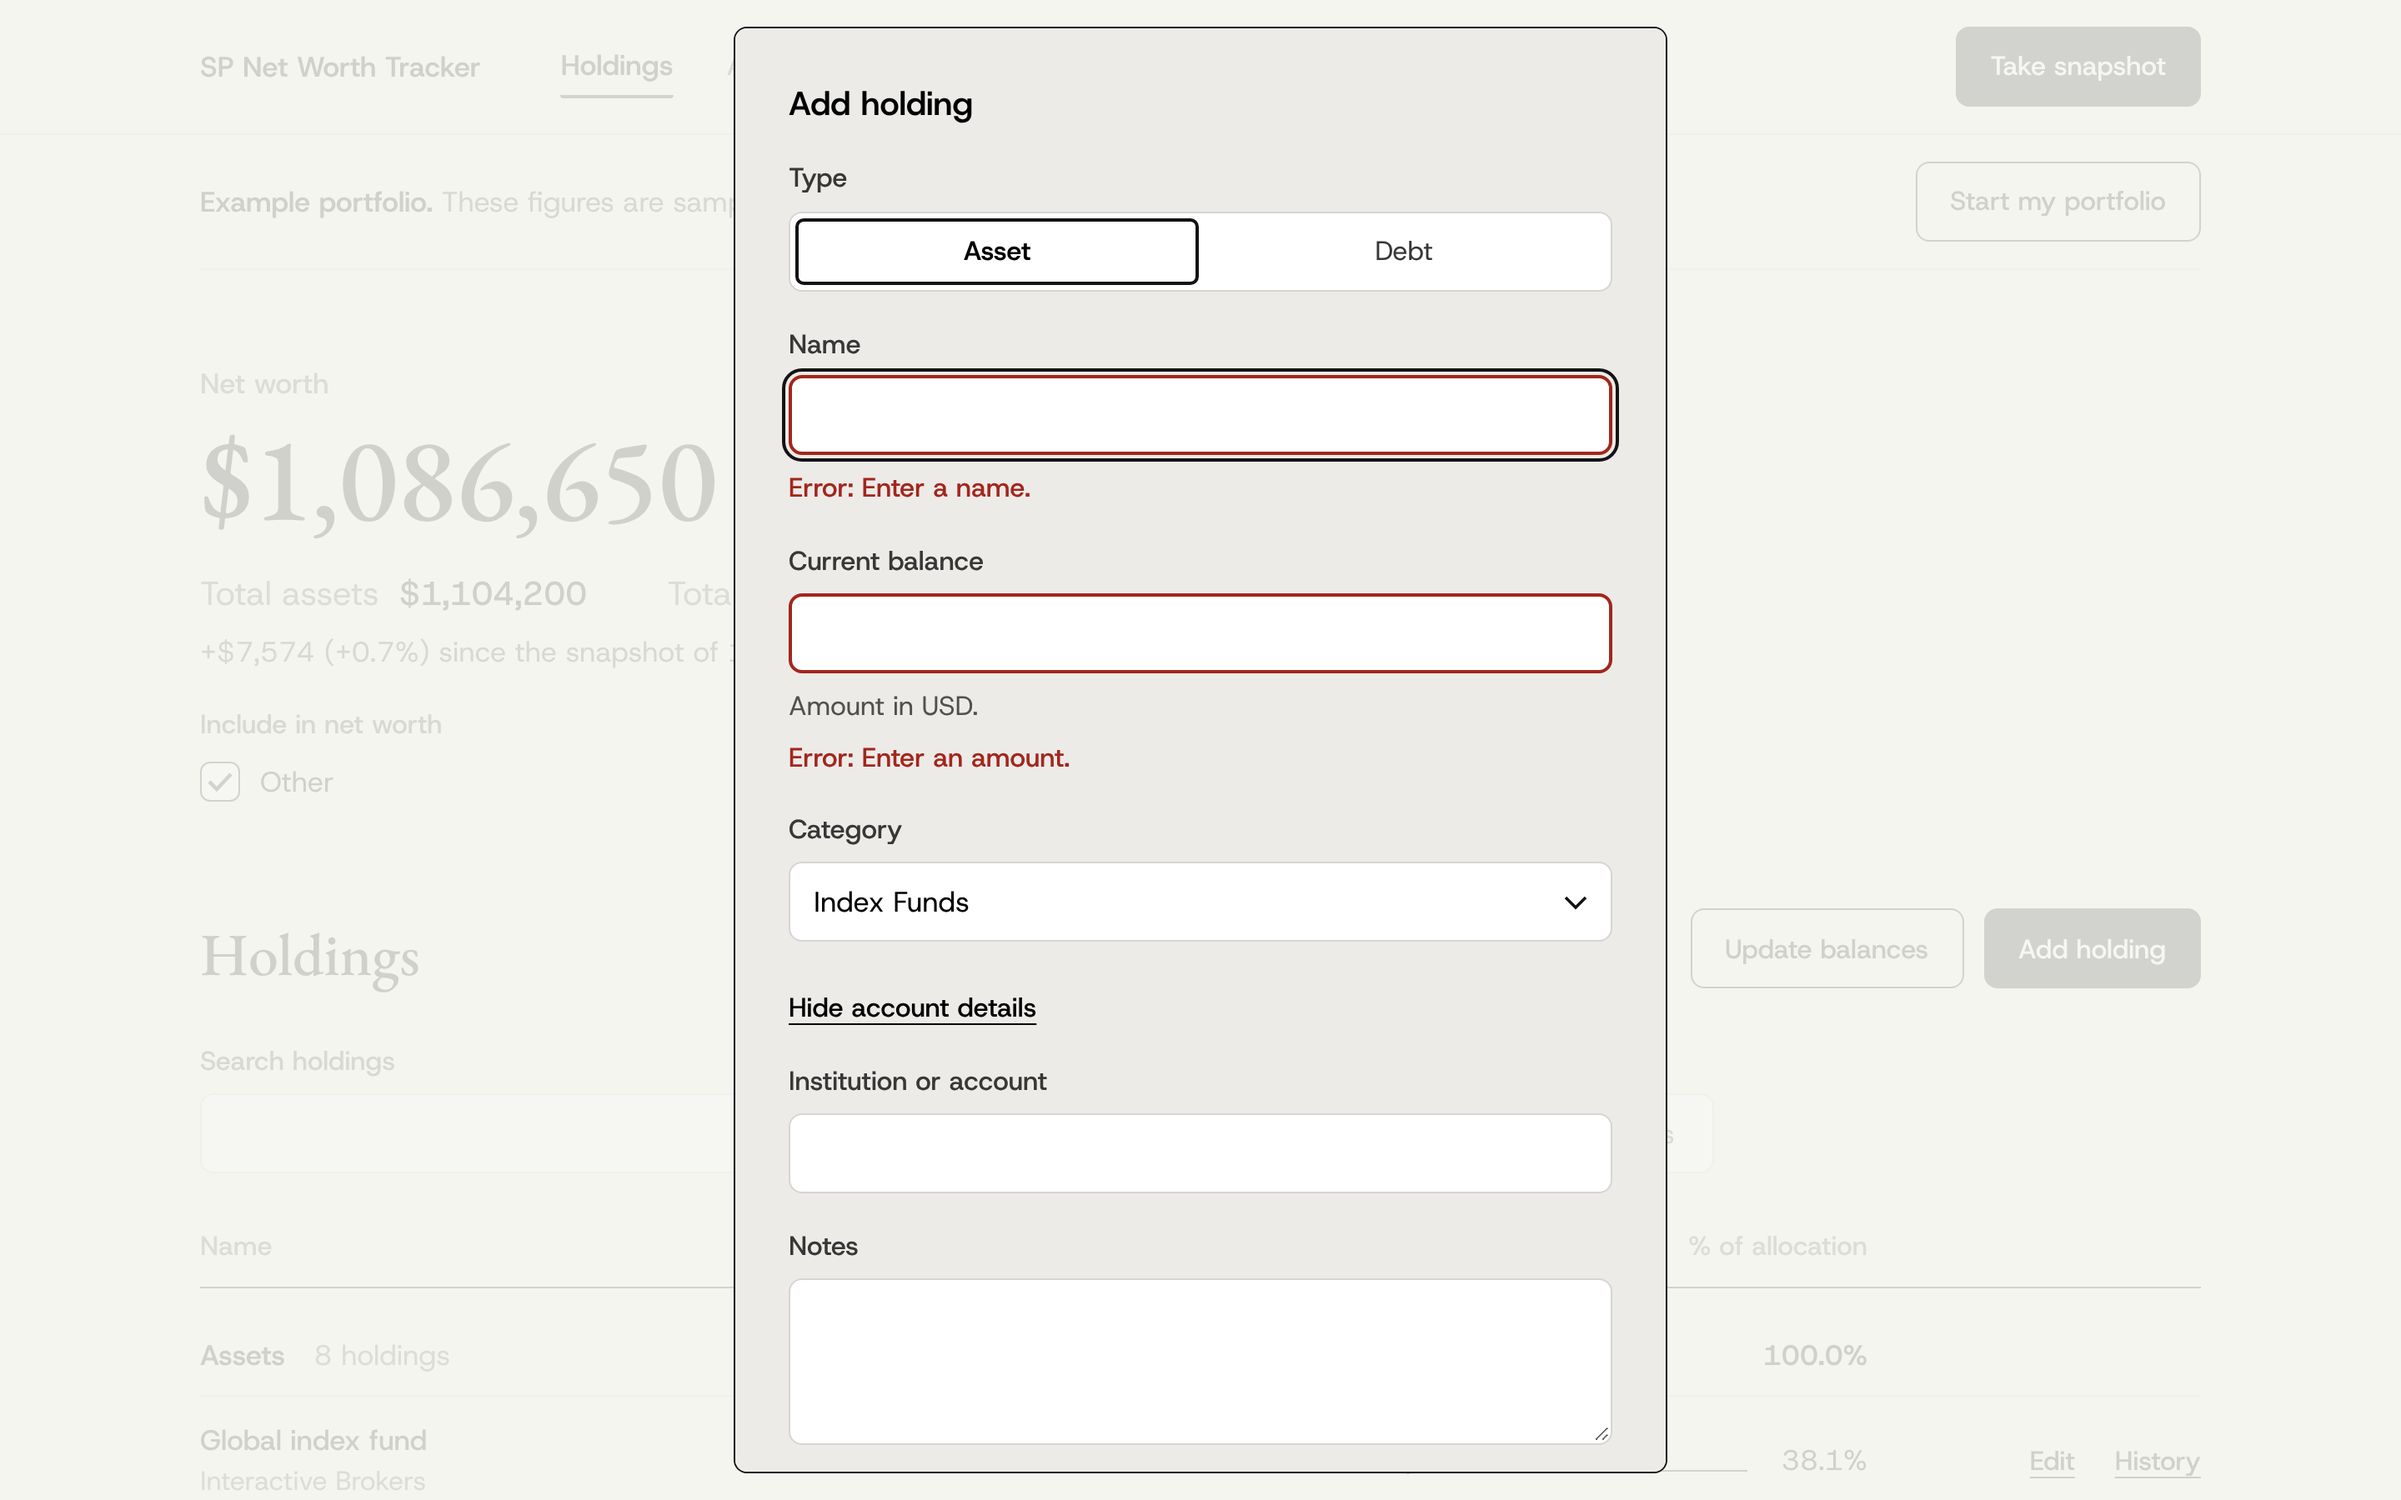
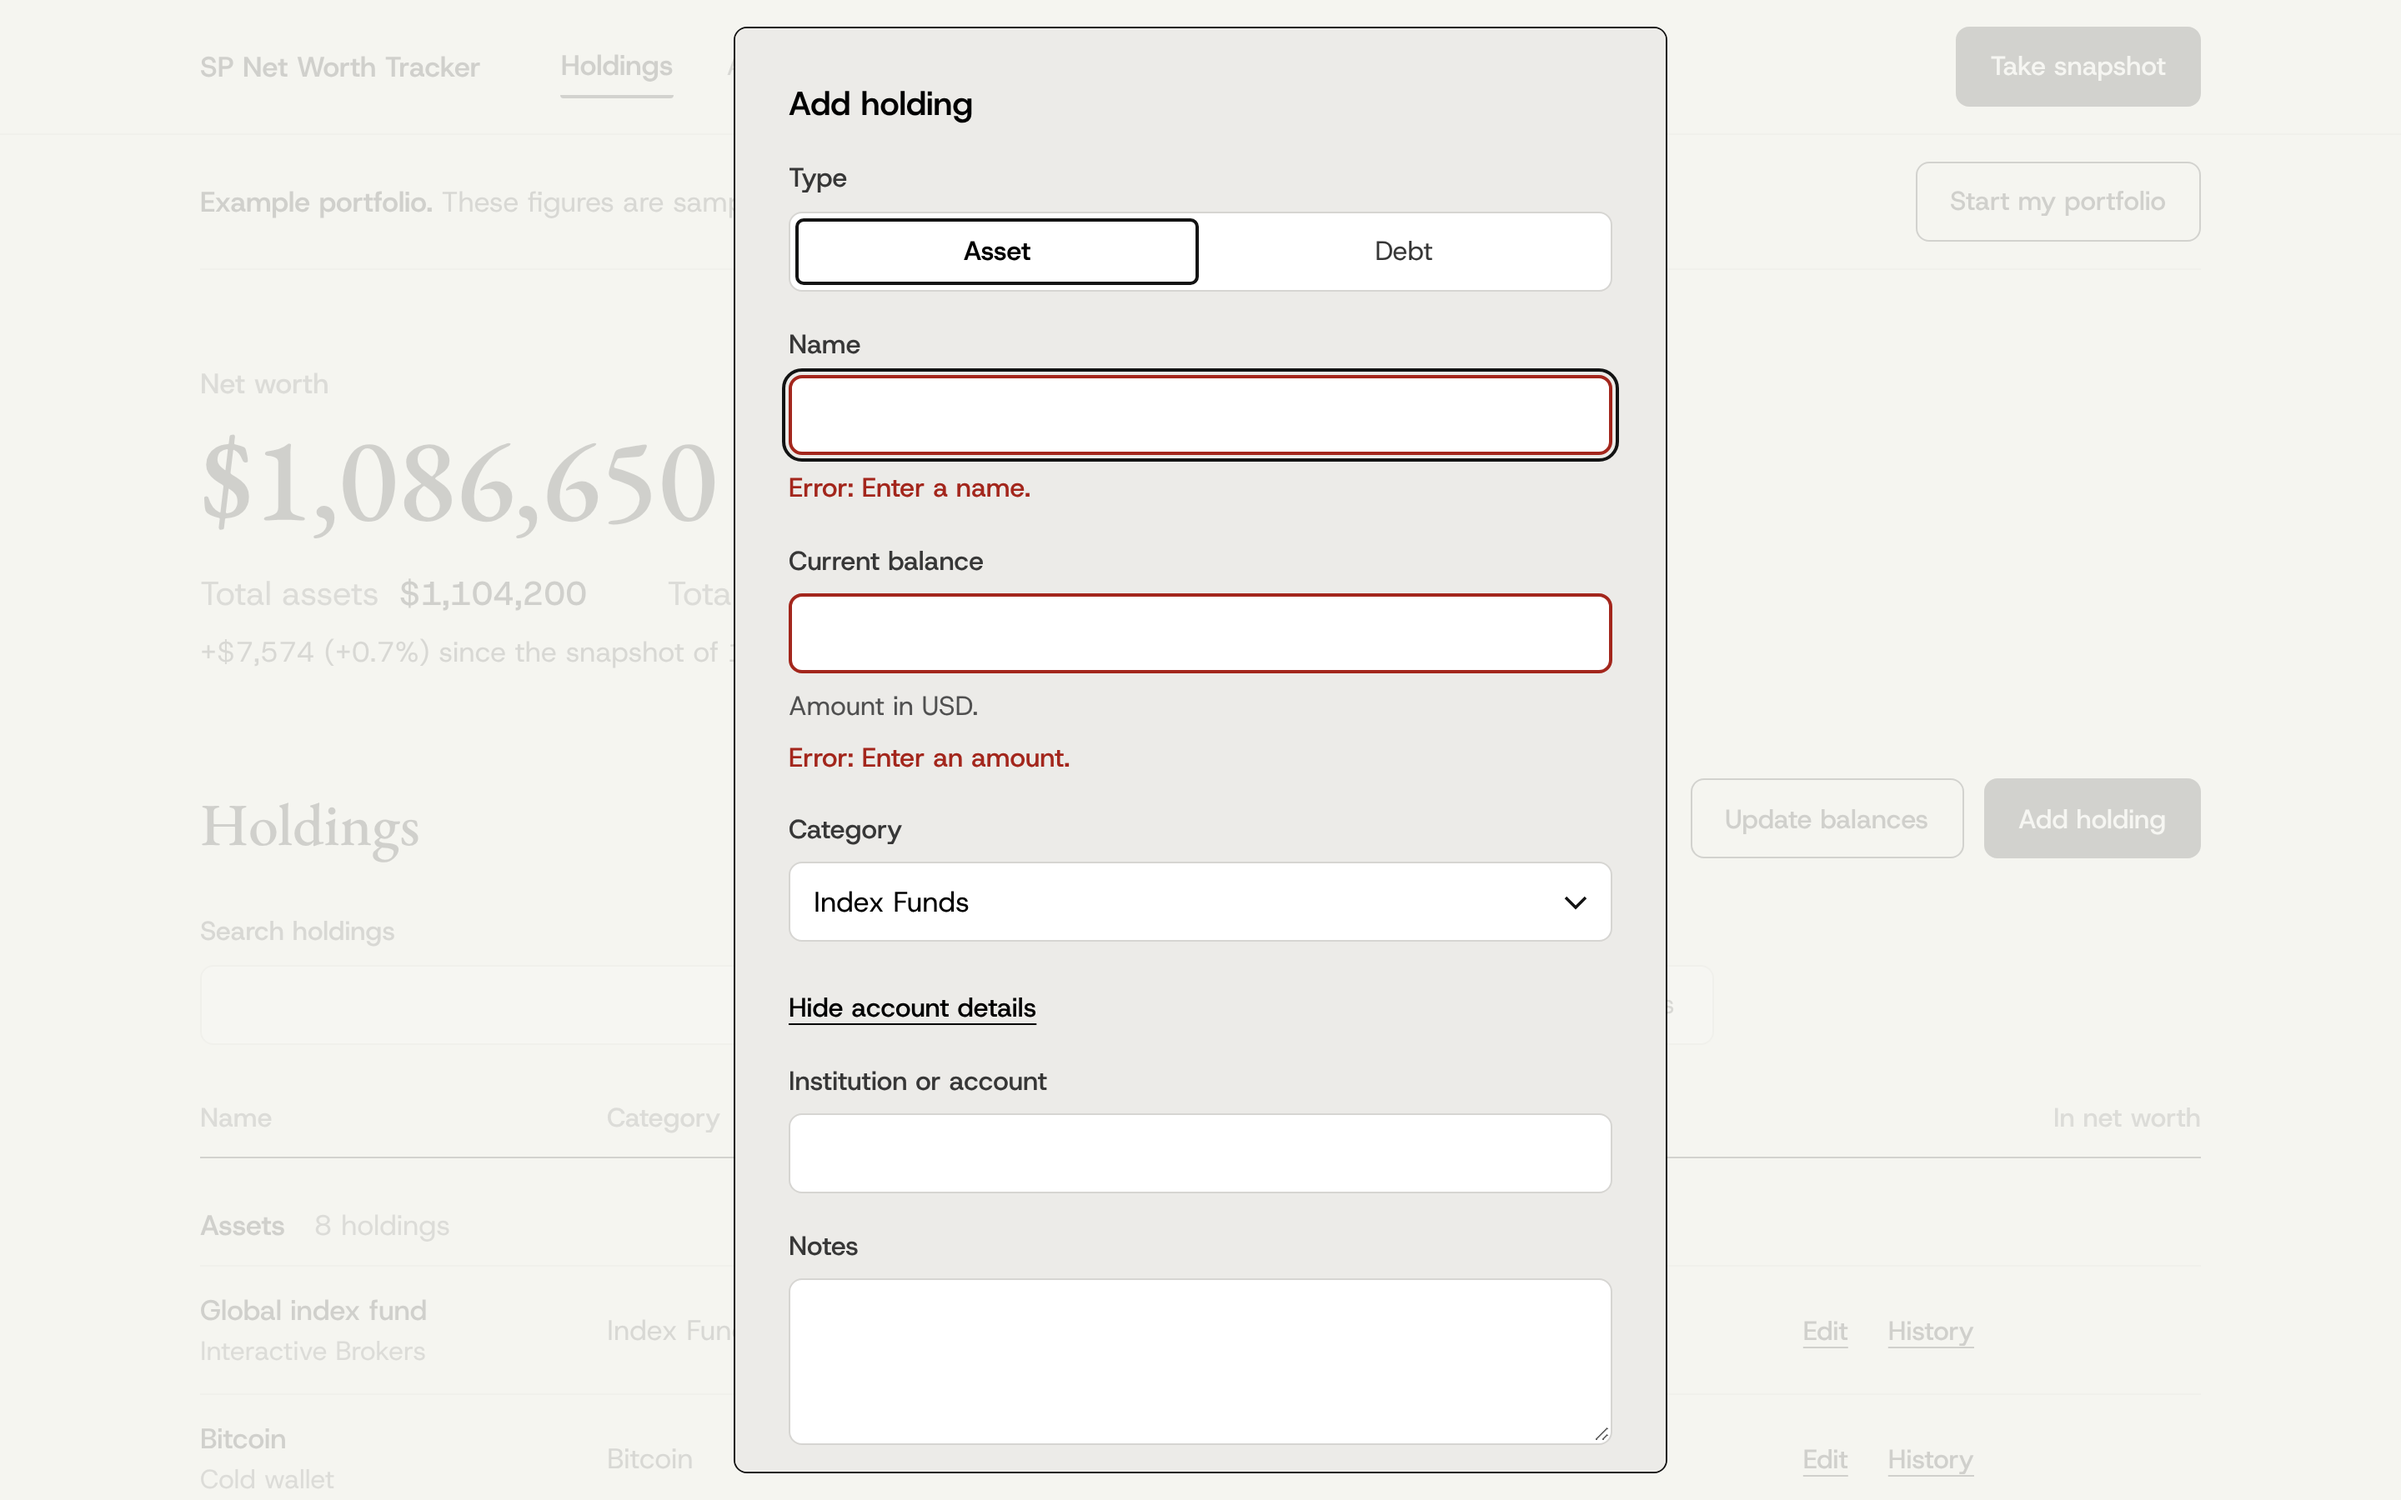
Move the in-net-worth checkboxes into the holdings table
Each holding outside the allocation now has its checkbox to the right
of History instead of a group under the net worth figure. Left-out
holdings stay listed and muted, so they can be ticked again.

Claude-Session: https://claude.ai/code/session_01MGnHEpiTRV9QRoaRJHrsMb

diff --git a/src/components/HoldingsSection.tsx b/src/components/HoldingsSection.tsx
@@ -6,13 +6,19 @@ import { useStore } from '../state';
 import { BulkUpdate } from './BulkUpdate';
 import { HoldingForm } from './HoldingForm';
 import { Select } from './Select';
-import { Segmented, TextField } from './ui';
+import { Checkbox, Segmented, TextField } from './ui';
 
 type Show = 'all' | 'asset' | 'debt';
 const ALL = '__all__';
 const NONE = '__none__';
 
-export function HoldingsSection({ hiddenCategoryIds }: { hiddenCategoryIds?: Set<string> }) {
+interface Props {
+  /** Categories outside the allocation that are left out of the net worth figure. */
+  hiddenCategoryIds?: Set<string>;
+  onToggleCategory?: (categoryId: string, hide: boolean) => void;
+}
+
+export function HoldingsSection({ hiddenCategoryIds, onToggleCategory }: Props) {
   const { data, fmt } = useStore();
   const [search, setSearch] = useState('');
   const [category, setCategory] = useState(ALL);
@@ -27,7 +33,6 @@ export function HoldingsSection({ hiddenCategoryIds }: { hiddenCategoryIds?: Set
   const q = search.trim().toLowerCase();
   const matches = (h: Holding) => {
     if (show !== 'all' && h.kind !== show) return false;
-    if (h.kind === 'asset' && h.categoryId !== null && hiddenCategoryIds?.has(h.categoryId)) return false;
     if (category !== ALL) {
       if (h.kind !== 'asset') return false;
       const id = h.categoryId && catName.has(h.categoryId) ? h.categoryId : NONE;
@@ -45,6 +50,23 @@ export function HoldingsSection({ hiddenCategoryIds }: { hiddenCategoryIds?: Set
   const activeFilters = (category !== ALL ? 1 : 0) + (show !== 'all' ? 1 : 0);
   const countText = (shown: number, all: number) => (shown === all ? `${all} ${all === 1 ? 'holding' : 'holdings'}` : `${shown} of ${all} holdings`);
 
+  // Holdings outside the allocation carry an "in net worth" checkbox for their category.
+  const showInclude = anyExcluded && Boolean(onToggleCategory);
+  const leftOut = (h: Holding) => h.kind === 'asset' && h.categoryId !== null && Boolean(hiddenCategoryIds?.has(h.categoryId));
+  const includeCell = (h: Holding) =>
+    showInclude ? (
+      <td className="c-include">
+        {h.kind === 'asset' && !counts(h) && h.categoryId !== null && (
+          <Checkbox
+            label="In net worth"
+            labelClassName="include-label"
+            ariaLabel={`Include ${categoryOf(h)} in net worth`}
+            checked={!leftOut(h)}
+            onChange={(include) => onToggleCategory!(h.categoryId as string, !include)}
+          />
+        )}
+      </td>
+    ) : null;
   const actions = (h: Holding) => (
     <td className="c-actions">
       <button className="link" type="button" aria-label={`Edit ${h.name}`} onClick={() => setForm({ holding: h })}>Edit</button>
@@ -128,21 +150,23 @@ export function HoldingsSection({ hiddenCategoryIds }: { hiddenCategoryIds?: Set
                   <th scope="col" className="num">Value</th>
                   <th scope="col" className="num">{anyExcluded ? '% of allocation' : '% of assets'}</th>
                   <th scope="col"><span className="sr-only">Actions</span></th>
+                  {showInclude && <th scope="col" className="c-include">In net worth</th>}
                 </tr>
               </thead>
               <tbody>
                 {assets.length > 0 && (
                   <tr className="group">
                     <th scope="rowgroup" colSpan={2}>Assets <span className="count">{countText(assets.length, allAssets.length)}</span></th>
-                    <td className="num">{fmt.money(sum(assets.map((h) => h.value)))}</td>
+                    <td className="num">{fmt.money(sum(assets.filter((h) => !leftOut(h)).map((h) => h.value)))}</td>
                     <td className="num">{pct(share(sum(assets.filter(counts).map((h) => h.value)), base) ?? 0)}</td>
                     <td />
+                    {showInclude && <td />}
                   </tr>
                 )}
                 {assets.map((h) => {
                   const s = counts(h) ? share(h.value, base) ?? 0 : null;
                   return (
-                    <tr key={h.id} className="row">
+                    <tr key={h.id} className={leftOut(h) ? 'row is-left-out' : 'row'}>
                       {nameCell(h)}
                       <td className="c-cat">{categoryOf(h)}</td>
                       <td className="num c-value">{fmt.money(h.value)}</td>
@@ -157,6 +181,7 @@ export function HoldingsSection({ hiddenCategoryIds }: { hiddenCategoryIds?: Set
                         )}
                       </td>
                       {actions(h)}
+                      {includeCell(h)}
                     </tr>
                   );
                 })}
@@ -166,6 +191,7 @@ export function HoldingsSection({ hiddenCategoryIds }: { hiddenCategoryIds?: Set
                     <td className="num">{fmt.money(-sum(debts.map((h) => h.value)))}</td>
                     <td className="num" />
                     <td />
+                    {showInclude && <td />}
                   </tr>
                 )}
                 {debts.map((h) => (
@@ -175,6 +201,7 @@ export function HoldingsSection({ hiddenCategoryIds }: { hiddenCategoryIds?: Set
                     <td className="num c-value">{fmt.money(-h.value)}</td>
                     <td className="num c-share"><span className="sr-only">Not counted in allocation</span></td>
                     {actions(h)}
+                    {includeCell(h)}
                   </tr>
                 ))}
               </tbody>

diff --git a/src/styles.css b/src/styles.css
@@ -94,9 +94,6 @@ a { color: inherit; }
 .totals dt { color: var(--text-3); }
 .totals dd { font-weight: 500; }
 .since { margin-top: 8px; color: var(--text-2); }
-.summary-toggle { margin-top: 20px; }
-.summary-toggle legend { font-size: 16px; font-weight: 500; color: var(--text-2); margin-bottom: 10px; }
-.summary-toggle-options { display: flex; flex-wrap: wrap; gap: 12px 32px; }
 
 /* Sections */
 .section { margin-top: var(--gap-section); }
@@ -148,6 +145,11 @@ main:focus { outline: none; }
 .holdings thead th:nth-child(3) { width: 180px; }
 .holdings thead th:nth-child(4) { width: 240px; }
 .holdings thead th:nth-child(5) { width: 200px; }
+.holdings thead th:nth-child(6) { width: 136px; }
+.holdings .c-include { text-align: right; white-space: nowrap; }
+.c-include .checkbox { vertical-align: middle; }
+.c-include .include-label { position: absolute; width: 1px; height: 1px; overflow: hidden; clip-path: inset(50%); white-space: nowrap; }
+.holdings .is-left-out .c-value, .holdings .is-left-out .name { color: var(--text-3); }
 
 .holdings .group th, .holdings .group td { padding: 28px 0 12px; font-weight: 600; border-bottom: 1px solid var(--line); }
 .holdings .group .count { font-weight: 400; color: var(--text-3); margin-left: 12px; }
@@ -373,7 +375,10 @@ form.panel { margin-top: 32px; padding: 32px; }
   .holdings .group { padding: 24px 0 10px; border-bottom-color: var(--ink); align-items: baseline; }
   .holdings .group td:nth-child(n + 3) { display: none; }
   .holdings .group .count { display: block; margin-left: 0; }
-  .holdings .row { padding: 14px 0 6px; grid-template-areas: 'name value' 'cat share' 'actions actions'; align-items: baseline; }
+  .holdings .row { padding: 14px 0 6px; grid-template-areas: 'name value' 'cat share' 'actions include'; align-items: baseline; }
+  .holdings thead th:nth-child(6) { width: auto; }
+  .c-include { grid-area: include; align-self: center; }
+  .c-include .include-label { position: static; width: auto; height: auto; overflow: visible; clip-path: none; font-size: 16px; color: var(--text-2); }
   .c-name { grid-area: name; }
   .c-cat { grid-area: cat; font-size: 16px; color: var(--text-3); }
   .c-value { grid-area: value; }

diff --git a/src/pages/Dashboard.tsx b/src/pages/Dashboard.tsx
@@ -6,7 +6,7 @@ import { AllocationTable } from '../components/AllocationTable';
 import { PortfolioChart, useRange } from '../components/charts';
 import { HoldingsSection } from '../components/HoldingsSection';
 import { STORAGE_KEY } from '../lib/store';
-import { Checkbox, Confirm } from '../components/ui';
+import { Confirm } from '../components/ui';
 
 const HIDDEN_KEY = `${STORAGE_KEY}.hiddenCategories`;
 
@@ -111,20 +111,10 @@ export function Dashboard({ onSnapshot }: { onSnapshot: () => void }) {
             ? `${fmt.signedMoney(change)}${changePct === null ? '' : ` (${change < 0 ? '−' : '+'}${Math.abs(changePct).toFixed(1)}%)`} since the snapshot of ${fmtDate(last.takenAt)}`
             : 'No snapshots saved yet. Take one to mark this moment.'}
         </p>
-        {anyExcluded && (
-          <fieldset className="summary-toggle">
-            <legend>Include in net worth</legend>
-            <div className="summary-toggle-options">
-              {outsideCats.map((c) => (
-                <Checkbox key={c.id} label={c.name} checked={!hidden.has(c.id)} onChange={(include) => toggleHidden(c.id, !include)} />
-              ))}
-            </div>
-          </fieldset>
-        )}
         <button className="btn btn-primary summary-snapshot" type="button" onClick={onSnapshot}>Take snapshot</button>
       </section>
 
-      <HoldingsSection hiddenCategoryIds={hiddenIds} />
+      <HoldingsSection hiddenCategoryIds={hiddenIds} onToggleCategory={toggleHidden} />
 
       <section className="section" aria-labelledby="growth-heading">
         <div className="section-head">

diff --git a/src/components/ui.tsx b/src/components/ui.tsx
@@ -104,16 +104,25 @@ export function TextField({ label, value, onChange, error, hint, inputMode, mult
   );
 }
 
-export function Checkbox({ label, checked, onChange }: { label: string; checked: boolean; onChange: (v: boolean) => void }) {
+interface CheckboxProps {
+  label: string;
+  checked: boolean;
+  onChange: (v: boolean) => void;
+  /** Overrides the accessible name when the visible label is short or hidden. */
+  ariaLabel?: string;
+  labelClassName?: string;
+}
+
+export function Checkbox({ label, checked, onChange, ariaLabel, labelClassName }: CheckboxProps) {
   return (
     <label className="checkbox">
-      <input type="checkbox" checked={checked} onChange={(e) => onChange(e.target.checked)} />
+      <input type="checkbox" checked={checked} aria-label={ariaLabel} onChange={(e) => onChange(e.target.checked)} />
       <span className="box" aria-hidden="true">
         {checked && (
           <svg width="16" height="12" viewBox="0 0 16 12"><path d="M1.5 6l4.5 4.5 8.5-9" fill="none" stroke="#131313" strokeWidth="2.25" /></svg>
         )}
       </span>
-      <span>{label}</span>
+      <span className={labelClassName}>{label}</span>
     </label>
   );
 }

diff --git a/README.md b/README.md
@@ -38,7 +38,7 @@ npm run preview
 ## How the numbers work
 
 - Net worth = total assets minus total debts.
-- Allocation percentages use total assets before debts, minus any category set outside the allocation (untick **Count in allocation** for things like a retirement account, a car or a rental deposit). Those still count fully in total assets and net worth. Under the net worth figure, **Include in net worth** has one checkbox per such category: untick any of them to see net worth without it. Debts always count in full. The choices are remembered per device. Example: assets of 100,000 and debts of 12,500 give a net worth of 87,500, and an asset worth 30,000 is 30.0% of assets.
+- Allocation percentages use total assets before debts, minus any category set outside the allocation (untick **Count in allocation** for things like a retirement account, a car or a rental deposit). Those still count fully in total assets and net worth. In the Holdings table, each holding in such a category has an **In net worth** checkbox to the right of History: untick it to see net worth without that category. All holdings in the same category follow together. Debts always count in full. The choices are remembered per device. Example: assets of 100,000 and debts of 12,500 give a net worth of 87,500, and an asset worth 30,000 is 30.0% of assets.
 - Difference to target = actual % minus target %. Amount vs target = category value minus (target % x total assets).
 - Amounts are added in whole cents, so totals never drift.
 - Changing the currency changes the label only. No amounts are converted.
